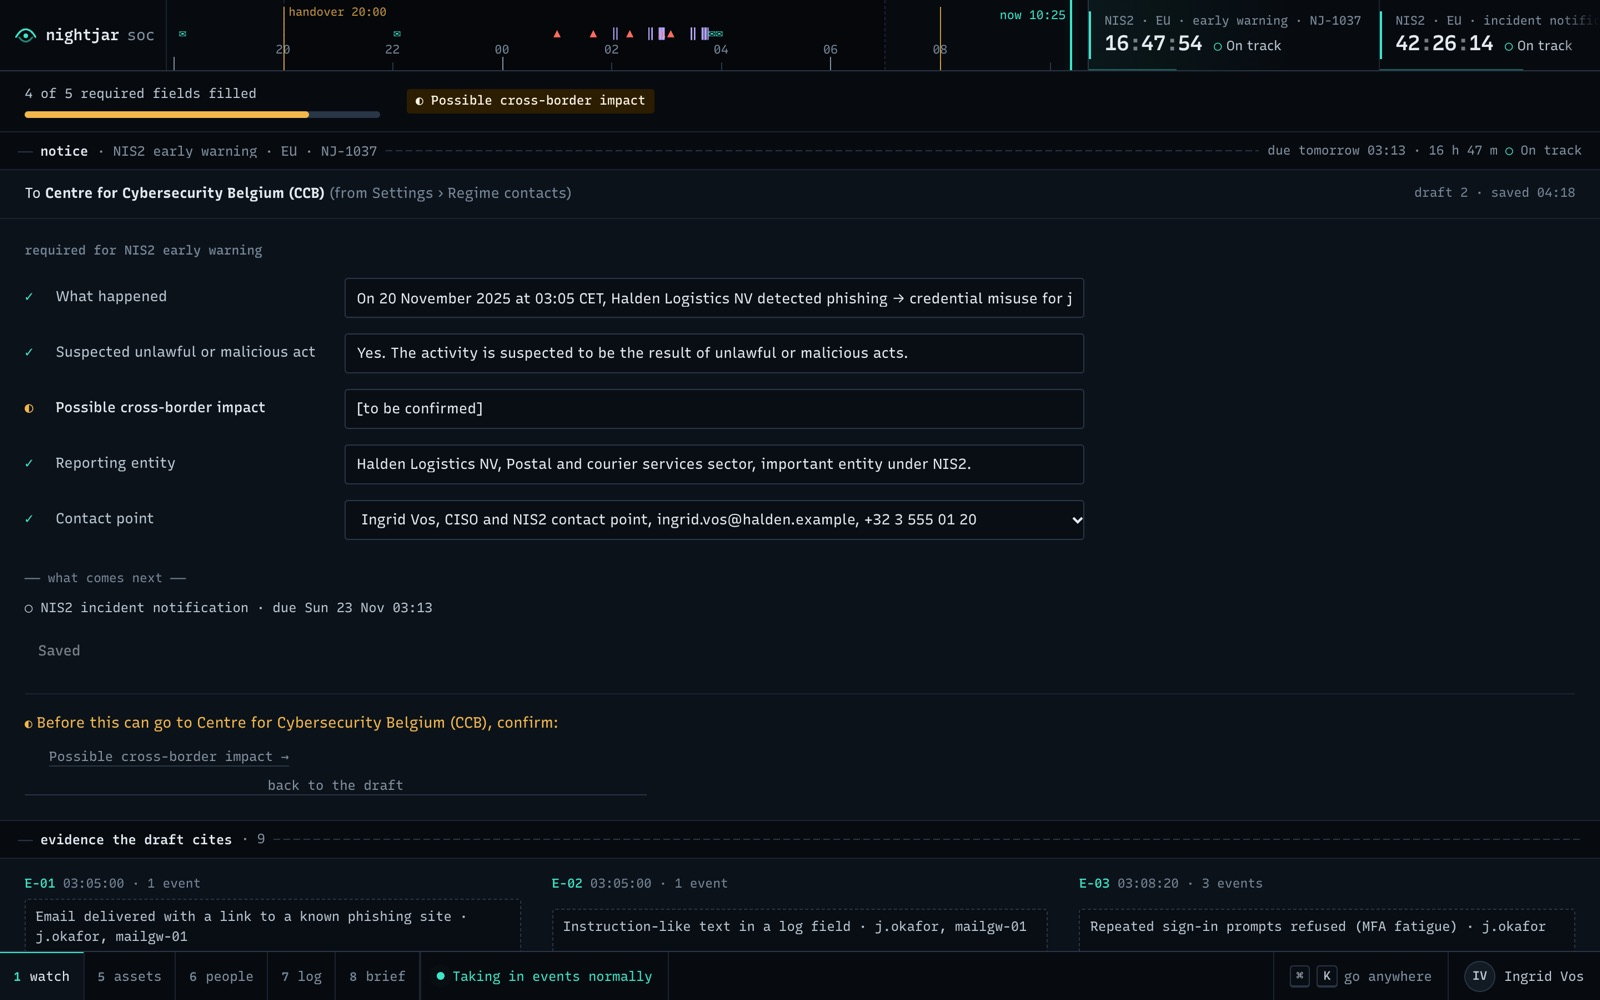
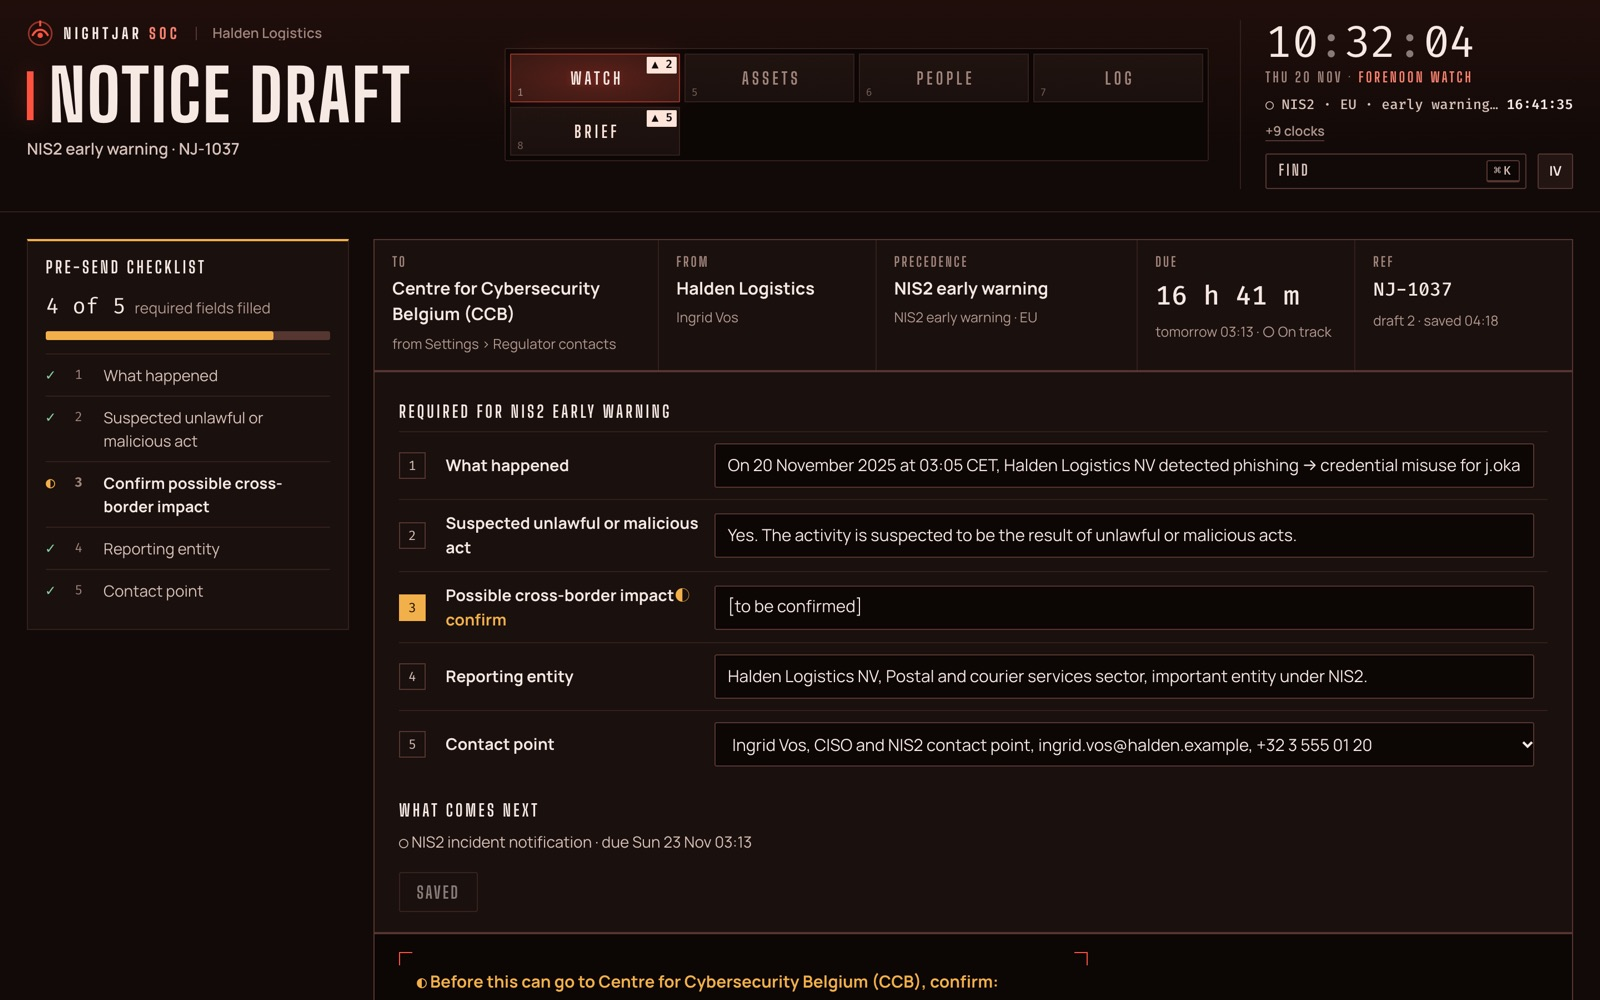
docs: the red-light redesign in the readme, measured checks and new screenshots

diff --git a/README.md b/README.md
@@ -38,7 +38,7 @@ regime has its own trigger, its own clock and its own recipient. Missing an earl
 | A night of pages for a backup-software update | A **calibrated triage model** that scores every alert with plain reasons, so 146 alerts become one likely-benign incident |
 | An analyst stitching together logs at 3 a.m. | **Three AI teammates** (Triage, Enrichment, Response) that investigate over an open agent protocol, with every step recorded and replayable |
 | Automation with the keys to production | **Hold to authorise**: no host is isolated and no account disabled without a signed, single-use human approval. Crown-jewel systems need the CISO as well |
-| Deadlines tracked in a spreadsheet | **Regulator clocks on the shift axis** for NIS2, SEC 8-K, SOCI and GDPR, with countdowns in each regulator's time zone and business days for the SEC |
+| Deadlines tracked in a spreadsheet | **Regulator clocks in every page's chronometer and on the watch dial** for NIS2, SEC 8-K, SOCI and GDPR, with countdowns in each regulator's time zone and business days for the SEC |
 | Notices written from scratch under pressure | **Drafted notices** with a missing-fields check, approval by the CISO and a recorded (simulated) submission |
 | A Monday slide deck | A **morning brief** for the CISO and a weekly report, in plain language |
 
@@ -48,15 +48,15 @@ The seeded roles match how a small security team and its executives work.
 
 | Role | What they get |
 |---|---|
-| **Security analyst** | The Watch: the night as a shift chart (every incident's path through triage, investigation, containment and reporting, on one time axis) and the turnover, the handover sheet written live; a live event river, incidents with the teammates' work laid out as a baton timeline, and Replay to step through any investigation. Each step shows what was looked at and why. Triage scores read "94 in 100" with the top three reasons. Plain-words hunting with saved and suggested searches, unusual-behaviour rhythm strips per person and computer, and detection rules as readable sentences with the Sigma source a keystroke away (turn rules on or off). Analysts can propose actions and draft notices |
+| **Security analyst** | The Watch: the night on a 24-hour watch dial (every incident's path through triage, investigation, containment and reporting as a line moving round the face and inward through the stages) with the turnover, the handover written live, in four readouts around it; a live event river, incidents with the teammates' work laid out as a baton timeline, and Replay to step through any investigation. Each step shows what was looked at and why. Triage scores read "94 in 100" with the top three reasons. Plain-words hunting with saved and suggested searches, unusual-behaviour rhythm strips per person and computer, and detection rules as readable sentences with the Sigma source a keystroke away (turn rules on or off). Analysts can propose actions and draft notices |
 | **Incident responder** | Approval cards that show what will happen, why, the least-privilege tool that will do it and how to undo it. **Hold to authorise** (1.2 s, pointer, Space or Enter) or decline with a reason. Reversals (release a host, re-enable an account) also need approval. Built-in tickets |
-| **CISO / executive** | The regulator clocks on the shift axis, applicability proposals with reasons, and the determination: significant, material or relevant impact. Notice drafting, approval and submission (simulated), with a recorded Attorney General delay for Form 8-K. Second approval on crown-jewel systems and privileged accounts. The **morning brief** (a separate dawn reading mode with one decision box and the last seven nights), the weekly report, regulator contacts and model promotion |
+| **CISO / executive** | The regulator clocks in the chronometer of every page, applicability proposals with reasons, and the determination: significant, material or relevant impact. Notice drafting, approval and submission (simulated), with a recorded Attorney General delay for Form 8-K. Second approval on crown-jewel systems and privileged accounts. The **morning brief** (a separate morning-report reading mode under a first-light horizon, with one decision box and the last seven nights), the weekly report, regulator contacts and model promotion |
 | **Auditor** | Read-only access to incidents, every agent step (with its A2A task id and input hash), approvals and notices, plus the activity log with a one-click check that the hash chain is intact and a CSV export |
 | **Administrator** | Members, invitations, ingest keys for event sources, and organisation settings |
 
 Across all of them:
 
-- **One grammar.** A shift axis across the top of every screen (regulator deadlines folded at its end), full-width bands, and a numbered watch bar at the bottom (Alt+1…8). ⌘K finds anything (do · go to · switch), scoped to the open incident first.
+- **One room, lit red.** Every page opens with a station head: the page name in tall stencil capitals, a lamp panel that is the navigation (a window lights where you are and flashes when something there needs a person; Alt+1…8), and a chronometer with the most urgent regulator clock. Registers are strips racked in bays, an incident is one flight strip, a notice is a signal form. ⌘K finds anything (do · go to · switch), scoped to the open incident first.
 - **Live.** Clocks tick, incidents coalesce and approvals land over Server-Sent Events.
 - **Separation of duties.** Nobody can be the only approver of an action they requested; pending approvals expire
   after 24 hours.
@@ -219,7 +219,7 @@ flowchart LR
 | Classical ML | scikit-learn (Isolation Forest, logistic regression, random forest), LightGBM, Optuna, isotonic calibration, SHAP (TreeSHAP), MLflow (local tracking), PSI drift |
 | Agents and tools | `a2a-sdk` 1.3 (A2A protocol, JSON-RPC), `mcp` 2.3 (Streamable HTTP, bearer-token scopes), LiteLLM (optional) with a deterministic offline fake |
 | Hunting | DuckDB (embedded, columnar), Parquet snapshots for training |
-| Web | SvelteKit 2, Svelte 5, TypeScript, Tailwind CSS 4.1, **Skeleton** (design system: Skeleton 3 theme and presets, Skeleton Svelte components on Zag.js) with a custom Nightjar theme, Recursive (bundled; Sans for reading, Mono for logs and clocks), Svelte motion built-ins |
+| Web | SvelteKit 2, Svelte 5, TypeScript, Tailwind CSS 4.1, **Skeleton** (design system: Skeleton 3 theme and presets, Skeleton Svelte components on Zag.js) on a custom red-light Nightjar theme, Big Shoulders Display, Manrope and Fira Code (bundled), Svelte motion built-ins |
 | Quality | pytest, Ruff, mypy, svelte-check, ESLint, Vitest, an evaluation harness with 25 gates, GitHub Actions CI |
 
 ## AI and machine learning
@@ -372,21 +372,21 @@ Measured on one laptop with everything running offline (`nats-server`, API, work
 production web build) and the demo clock set to 20 November 2025.
 
 - **Tests:** 556 backend tests (pytest: platform, API, RBAC, tenant isolation, approvals and tokens, clock maths,
-  hunting, seed, pipeline, detection, ML, agents and safety) and 145 web tests (Vitest: API client, clock maths,
-  hold to authorise, untrusted text, hunting, rules, the brief, the shift chart's layout, the shell model, the
-  band primitives and end-to-end flows through the mock API). Ruff,
+  hunting, seed, pipeline, detection, ML, agents and safety) and 157 web tests (Vitest: API client, clock maths,
+  hold to authorise, untrusted text, hunting, rules, the brief, the shift and the watch dial's geometry, the shell
+  model, the plate and lamp primitives and end-to-end flows through the mock API). Ruff,
   mypy, svelte-check and ESLint are clean, and `alembic check` finds no drift.
 - **Layout and contrast crawl on the live stack:** every console, brief and public route, signed in as each of the
-  five roles, in the night and day themes at 1440 px and at 390 px (302 page views): no horizontal overflow. The
-  day theme's teal was darkened to `#087565` where it measured 4.2 : 1, and a re-check (126 page views) found no
-  text below WCAG AA contrast.
+  five roles, in the night and day presentations at 1440 px and at 390 px (301 page views): no text below WCAG AA
+  contrast and no engineering words. The first pass found horizontal overflow at 390 px on two pages (the incident's
+  record tabs and the people register's filters); after the fix a re-check of those pages for two roles (39 page
+  views) found none.
 - **Browser journeys on the live stack:** 52 steps with system Chrome, signed in as each role (the landing replay
   and hold, the watch and ⌘K, the incident replay and step drawer, hold to authorise, self-approval refused, the
   CISO's co-approval on a crown jewel, a NIS2 notice drafted, completed and submitted, the SEC decision, hunting,
   rules, unusual behaviour, the brief and weekly report, settings, the activity log, sign out, and a live event
-  posted through an ingest key showing up on the watch about a second later). Zero console errors, zero failed
-  requests, no horizontal overflow at 390 px and no engineering words, raw ids or hashes in the visible text,
-  with motion on and with reduced motion.
+  posted through an ingest key showing up on the watch about three seconds later). Zero console errors and zero
+  failed requests, no horizontal overflow at 390 px, and no engineering words, raw ids or hashes in the visible text.
 - **Time to triage on the live stack:** a native Sysmon LSASS-dump event posted through an ingest key on five fresh
   hosts reached a recorded triage verdict at **p50 1.15 s, max 1.18 s**. That path runs ingest → NATS → normaliser
   → Sigma → scorer → correlator → incident → the three teammates over A2A with the tool servers.
@@ -426,14 +426,14 @@ All screens use the synthetic Halden Logistics demo with the clock set to late N
 
 | | |
 |---|---|
-| ![The landing page replays a night at Halden Logistics on the shift chart; three alerts become one incident and the NIS2 clock drops onto the time axis](docs/screenshots/landing-replay.jpg) | ![The watch: the night as a shift chart, every incident stepping through triage, investigation, containment and reporting, above the handover sheet](docs/screenshots/the-watch.jpg) |
-| **Landing replay.** One night at the sample company, drawn on the product's own chart, from the first odd sign-in to the regulator clock. | **The watch.** The night across, the response stages down, deadlines at the end of the axis, and the turnover below. |
-| ![An incident's investigation as a baton timeline across the triage, enrichment and response teammates, under the incident header and its tabs](docs/screenshots/incident-baton.jpg) | ![Hold to authorise: withdrawing a leaked cloud access key waits for a person to press and hold, beside the regulator questions for the same incident](docs/screenshots/hold-to-authorise.jpg) |
-| **Baton timeline.** The AI teammates' investigation, replayable step by step; decisions sit directly under the incident header. | **Hold to authorise.** Nothing is switched off until a person holds; crown jewels need two. |
-| ![A NIS2 early-warning draft with a readiness meter and one required field still to confirm](docs/screenshots/nis2-notice-draft.jpg) | ![Unusual behaviour: 14 days of hourly activity per person with the outlier marked](docs/screenshots/unusual-behaviour.jpg) |
-| **Notice draft.** Filled from the evidence; the readiness meter flags the missing fact before submission. | **Unusual behaviour.** Each person and device against their own normal. |
-| ![The CISO's morning brief in its dawn edition, on the same time axis as the watch](docs/screenshots/ciso-morning-brief.jpg) | ![The watch on a phone: response stages and the handover as sections, numbered windows at the bottom](docs/screenshots/phone-watch.jpg) |
-| **Morning brief.** A two-minute read for the CISO, decision first, with the night drawn on the same chart. | **On a phone.** Lanes and handover fold into sections for whoever is on call. |
+| ![The landing page replays a night at Halden Logistics on the 24-hour watch dial; three alerts become one incident and the NIS2 clock drops in beside the chronometer](docs/screenshots/landing-replay.jpg) | ![The watch: the night on a 24-hour dial, every incident moving round the face and inward through the response stages, with the four handover readouts at its corners](docs/screenshots/the-watch.jpg) |
+| **Landing replay.** One night at the sample company, drawn on the product's own dial, from the first odd sign-in to the regulator clock. | **The watch.** The night round a watchman's dial, the response stages as rings, deadlines ahead of the hand, and the turnover in four readouts around it. |
+| ![An incident as one strip, its orders waiting on a person, and the investigation replayable across the triage, enrichment and response teammates](docs/screenshots/incident-baton.jpg) | ![Hold to authorise: withdrawing a leaked cloud access key waits for a person to press and hold, beside the regulator questions for the same incident](docs/screenshots/hold-to-authorise.jpg) |
+| **Strip, orders, log.** The AI teammates' investigation, replayable step by step; decisions sit directly under the incident strip. | **Hold to authorise.** Nothing is switched off until a person holds; crown jewels need two. |
+| ![A NIS2 early-warning draft as a signal form with a pre-send checklist and one required field still to confirm](docs/screenshots/nis2-notice-draft.jpg) | ![Unusual behaviour: 14 days of hourly activity per person with the outlier marked](docs/screenshots/unusual-behaviour.jpg) |
+| **Notice draft.** Filled from the evidence; the pre-send checklist flags the missing fact before submission. | **Unusual behaviour.** Each person and device against their own normal. |
+| ![The CISO's morning brief laid out as a morning report under a first-light horizon](docs/screenshots/ciso-morning-brief.jpg) | ![The watch on a phone: the dial at screen width, the stages and the handover as sections, and a panel button for stations and clocks](docs/screenshots/phone-watch.jpg) |
+| **Morning brief.** A two-minute read for the CISO: the headline, the one decision, and the night on the same dial. | **On a phone.** The dial, the stages and the handover fold into sections for whoever is on call. |
 
 ## Compliance alignment
 
